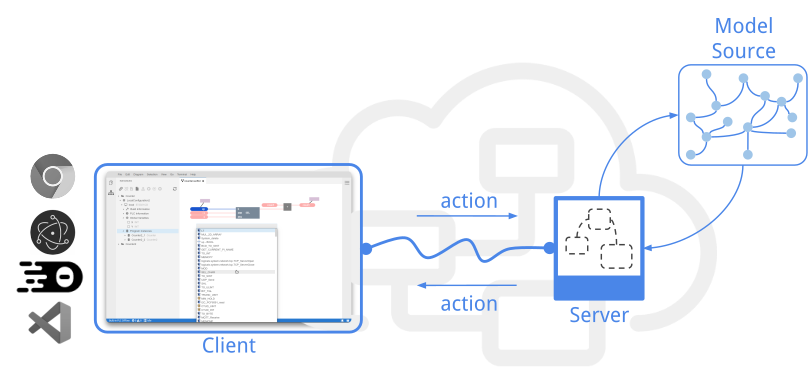
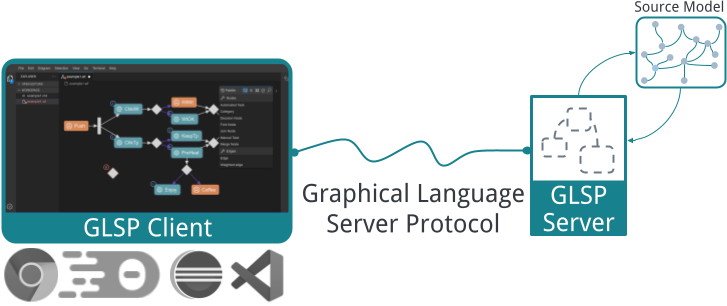
Update documentation after refactoring (#52)
https://github.com/eclipse-glsp/glsp/issues/582

diff --git a/content/documentation/modelLoading/content.md b/content/documentation/modelLoading/content.md
@@ -2,30 +2,29 @@
 fragment = "content"
 weight = 100
 
-title = "Model Source Loading & Model State"
+title = "Source Model & Model State"
 
 [sidebar]
   sticky = true
 +++
 
-To be able to render the diagram, the GLSP client first requests the graphical model from the server.
-The model loading process is initiated with a [RequestModelAction](https://github.com/eclipse-glsp/glsp/blob/master/PROTOCOL.md#241-requestmodelaction).
-Typically this is the first action that the GLSP client sends after initializing the diagram widget.
+In order to render a diagram, the GLSP client first requests the graphical model from the server by sending a [RequestModelAction](https://github.com/eclipse-glsp/glsp/blob/master/PROTOCOL.md#241-requestmodelaction).
+With such a request model action, the client can provide a set of custom arguments in the client options, such as a URI or an ID of a diagram, to specify the diagram requested by the user.
+Based on these arguments, the GLSP server determines which source model it needs to load, transform into a graphical model and send back to the client.
 
-With the [RequestModelAction](https://github.com/eclipse-glsp/glsp/blob/master/PROTOCOL.md#241-requestmodelaction), the client can provide a set of custom arguments (client options).
-At the bare minimum these client options have to provide the required information so that the _GLSP server_ can identify and load the correct model source.
-In most cases this will be, for instance, a URI of the model to be loaded.
+Therefore, a request model action is handled as follows by the the _GLSP server_ (see also `RequestModelActionHandler`):
 
-To handle such a request model action, the _GLSP server_ will perform the following steps:
-
-1. Invoke the configured `ModelSourceLoader` to load the model from an arbitrary model source into the model state.
-2. Invoke the configured `GModelFactory` to transform the model state into the graphical model (GModel; see [GModelFactory]({{< ref "modelGeneration" >}})) that describes the diagram to be rendered.
+1. Invoke the configured `SourceModelStorage` to load the source model from an arbitrary resource into the model state.
+2. Invoke the configured `GModelFactory` to transform the model state into the graphical model, or GModel for short, that describes the diagram to be rendered (see also [GModelFactory]({{< ref "modelGeneration" >}})).
 3. Invoke the model submission to send the graphical model to the client.
 
-In this section, we’ll look at step 1, in which the configured `ModelSourceLoader` implementation is invoked to load the source model from the arbitrary model source into the model state.
+In this section, we’ll look at the interfaces involved step 1: the `SourceModelStorage` and the `GModelState`.
+
+Every GLSP server needs to provide an implementation of the interface `SourceModelStorage`.
+Implementations of this interface are reponsible for loading source models from a specific resource, such as an EMF model, a JSON file, or a database, into the GLSP server's model state.
 
 The `ModelState` is the central stateful object within a client session that represents the information about the current state of the original source model.
-All other services and handlers may access the model state to obtain the required information about the model in order to perform their respective tasks.
+All other services and handlers may access the model state to obtain the required information about the model in order to perform their diagram editing tasks.
 
 As you typically need to store custom information that is specific to your model in the model state, you typically also bind a custom implementation that represents your model state.
 This implementation usually implements the interface `GModelState` (and extends the base class `DefaultGModelState`).
@@ -54,15 +53,15 @@ isBound: interfaces.IsBound, rebind: interfaces.Rebind): void {
 </details>
 </br>
 
-Now as we have registered our model state implementation, we can look at the model source loading.
-First, we need to make the GLSP server aware of your model source loader, you have to register your implementation of the `ModelSourceLoader` interface in the server’s DI module:
+Now as we have registered our model state implementation, we can look at the source model loading.
+First, we need to make the GLSP server aware of your `SourceModelStorage` implementation, so you have to bind your implementation of the `SourceModelStorage` interface in the server’s DI module:
 
 <details open><summary>Java GLSP Server</summary>
 
 ```java
   @Override
-  protected Class<? extends ModelSourceLoader> bindSourceModelLoader() {
-    return MyModelLoader.class;
+  protected Class<? extends SourceModelStorage> bindSourceModelStorage() {
+    return MySourceModelStorage.class;
   }
 ```
 
@@ -74,20 +73,23 @@ First, we need to make the GLSP server aware of your model source loader, you ha
   protected configure(bind: interfaces.Bind, unbind: interfaces.Unbind,
    isBound: interfaces.IsBound, rebind: interfaces.Rebind): void {
       super.configure(bind, unbind, isBound, rebind);
-      bind(ModelSourceLoader).to(MyModelLoader);
+      bind(SourceModelStorage).to(MySourceModelStorage);
   }
 ```
 
 </details>
 </br>
 
-The registered implementation of the model loader needs to load the source model and add it to the session’s model state, based on the parameters that are contained in the [RequestModelAction](https://github.com/eclipse-glsp/glsp/blob/master/PROTOCOL.md#241-requestmodelaction).
-Consequently, the implementation mostly depends on where you need to load your source model(s) from and what kind of model(s) you are dealing with (files, XML, JSON, EMF, database, etc.).
+The registered implementation of the source model storage needs to provide two functionalities:
+
+1. Loading source models, based on the parameters that are contained in the [RequestModelAction](https://github.com/eclipse-glsp/glsp/blob/master/PROTOCOL.md#241-requestmodelaction), and adding them into the session’s model state.
+The implementation mostly depends on where you need to load your source model(s) from and what kind of model(s) you are dealing with (files, XML, JSON, EMF, a database, etc.).
+2. Saving the current version of the source model from the `GModelState` back into its original resource (files, XML, EMF, database, etc.). This method is invoked when the client sends a [SaveModelAction](https://github.com/eclipse-glsp/glsp/blob/master/PROTOCOL.md#251-savemodelaction) (see also `SaveModelActionHandler`).
 
 <details open><summary>Java GLSP Server</summary>
 
 ```java
-public class MyModelLoader implements ModelSourceLoader {
+public class MySourceModelStorage implements SourceModelStorage {
 
    @Inject
    protected MyModelState modelState;
@@ -101,6 +103,21 @@ public class MyModelLoader implements ModelSourceLoader {
       modelState.setModel(model);
    }
 
+   @Override
+   public void saveSourceModel(final SaveModelAction action) {
+      // get the current version of your model
+      final YourModel model = modelState.getModel();
+      // get the information to know where to store your model
+      final String uri = action.getFileUri().get();
+      
+      try {
+         // store your model
+      } catch (IOException e) {
+         LOG.error(e);
+         throw new GLSPServerException("An error occured while saving the model.", e);
+      }
+   }
+
 }
 ```
 
@@ -110,7 +127,7 @@ public class MyModelLoader implements ModelSourceLoader {
 
 ```ts
 @injectable()
-export class MyModelLoader implements ModelSourceLoader {
+export class MySourceModelStorage implements SourceModelStorage {
 
     @inject(MyModelState)
     protected modelState: MyModelState;
@@ -122,6 +139,19 @@ export class MyModelLoader implements ModelSourceLoader {
       // add information needed about your model into the model state
       this.modelState.model=model;
     }
+
+   saveSourceModel(action: SaveModelAction): MaybePromise<void> {
+      // get the current version of your model
+      const model = this.modelState.model;
+      // get the information to know where to store your model
+      const uri = this.modelState.sourceUri;
+      
+      try {
+         // store your model
+      } catch (error) {
+         throw new GLSPServerError(`Could not load model from file: ${this.modelState.sourceUri}`, error);
+      }
+   }
 }
 ```
 
@@ -129,6 +159,6 @@ export class MyModelLoader implements ModelSourceLoader {
 </br>
 
 In the GLSP Workflow example there is also an example, in which the source model is a JSON file that contains the GModel directly.
-In such a scenario, you can use the plain GModelState and the JsonFileGModelLoader.
+In such a scenario, you can use the plain GModelState and the JsonFileGModelStorage.
 
-Once the source model has been loaded into the model state, the GLSP server invokes the configured `GModelFactory` to derive the graphical model from the source model and issues model update for the client. (see [Graphical Model Generation]({{< ref "modelGeneration" >}}))
+Once the source model has been loaded into the model state, the GLSP server invokes the configured `GModelFactory` to derive the graphical model from the source model and issues model update for the client (see [Graphical Model Generation]({{< ref "modelGeneration" >}})).

diff --git a/content/documentation/architecture/content.md b/content/documentation/architecture/content.md
@@ -9,6 +9,7 @@ title = "Overview & Architecture"
 +++
 
 ### Overview
+
 The *Graphical Language Server Platform* (GLSP) is a client-server framework for building web-based diagram editors.
 It follows an architectural pattern similar to the hugely popular [Language Server Protocol](https://github.com/Microsoft/language-server-protocol), but applies it to graphical modeling and diagram editors.
 With that, GLSP enables the development of modern, web-based diagram editors, whereas the heavy lifting, such as loading, interpreting, and editing diagrams according to the rules of the graphical diagram language, is encapsulated in the server.
@@ -24,11 +25,11 @@ Both the *GLSP server* and *GLSP client* have dedicated action handlers that can
 Each running diagram widget is considered to be a single *GLSP client*.
 Each client is handled by exactly one *GLSP server*. A *GLSP server* can handle multiple *GLSP client*s, each within a dedicated client session.
 
-The server is responsible for loading the model source, e.g. a file, EMF model, or database, into the model state and defines how to transform it into the graphical model.
+The server is responsible for loading the source model, e.g. a file, EMF model, or database, into the model state and defines how to transform it into the graphical model.
 The graphical model is a serializable description of the diagram that should be visualized.
 It is the central communication artifact that is transferred to the client.
 
-The *GLSP client* itself doesn’t need to know how the diagram has been generated from a model source or how to manipulate it.
+The *GLSP client* itself doesn’t need to know how the diagram has been generated from a source model or how to manipulate it.
 Its main responsibility is to visualize the graphical model and to provide user interface elements for user interaction, such as editing tools.
 Thus, the client interprets the graphical model received from the server and renders a diagram from it.
 In addition, the *GLSP client* handles user interaction and provides editing tools to invoke manipulations of the diagram.
@@ -43,7 +44,7 @@ Certain knowledge about the rules of the graphical language is required within c
 For instance, the client-side tools need to know whether the user is allowed to connect certain nodes with each other, whether those nodes can be resized or moved between container nodes, etc.
 Therefore, the protocol between client and server provides dedicated action messages that allows to transfer this required context- and diagram-specific information between the server and the client.
 
-Once an editing tool is applied in the client, the client sends a notification to the server, which then will perform the operation on the original model source, regenerates the graphical model and updates the client with the new version of the graphical model, which in turn will then update the rendered diagram based on the new graphical model.
+Once an editing tool is applied in the client, the client sends a notification to the server, which then will perform the operation on the original source model, regenerates the graphical model and updates the client with the new version of the graphical model, which in turn will then update the rendered diagram based on the new graphical model.
 </br></br>
 
 ### Action Protocol
@@ -52,7 +53,7 @@ The GLSP action protocol defines the message types that are exchanged between cl
 The protocol is structured into so-called features.
 A feature describes a specific diagram capability, e.g. element creation, diagram validation, etc.
 Each feature is composed of a set of actions and/or operations.
-An operation is a special subtype of an action and is used to describe actions that modify the underlying model source on the *GLSP server*.
+An operation is a special subtype of an action and is used to describe actions that modify the underlying source model on the *GLSP server*.
 Every action that modifies the model in any way has to be implemented as an operation.
 
 A detailed description of the protocol is available in the [GLSP repository](https://github.com/eclipse-glsp/glsp/blob/master/PROTOCOL.md).
@@ -100,7 +101,6 @@ Adopters can load new modules into the DI container.
 </p>
 </br></br>
 
-
 #### GLSP Server
 
 Similar to the GLSP client, also the server is configured via DI, including its service implementations, handlers, etc.
@@ -128,7 +128,7 @@ The node-based GLSP server uses [inversify.js](https://inversify.io/) as depende
 
 The graphical model is a serializable description of the diagram to be visualized on the client.
 It is the central communication artifact between client and server.
-The server creates the graphical model from an arbitrary model source and sends it to the client.
+The server creates the graphical model from an arbitrary source model and sends the graphical model to the client.
 Thus, the client doesn’t need to know where it came from and how to manipulate it.
 However, the client interprets the graphical model in order to render a visualization of the diagram described in the graphical model.
 

diff --git a/content/documentation/modelGeneration/content.md b/content/documentation/modelGeneration/content.md
@@ -11,16 +11,14 @@ title = "Graphical Model Generation"
 
 After the initial loading of the source model – and also after each change of the original source model – the GLSP server generates a graphical model from the source model in order to define what is to be rendered on the client.
 
-
-The generation of the graphical model from the original model source is the responsibility of the `GModelFactory`.
+The generation of the graphical model from the original source model is the responsibility of the `GModelFactory`.
 Therefore, the `GModelFactory` obtains the source model from the model state and generates a new graphical model from it.
 Implementations of the `GModelFactory` are by nature very specific to the source model and the diagram type.
 Thus, in almost every GLSP editor project, a custom `GModelFactory` implementation is provided.
 
-
-The only exception are GLSP editors that directly operate on GModels; that is, the GModel is persisted and loaded directly by the model source loader.
-In such cases, no transformation from the model source and the GModel needs to be provided as the model source already is the GModel.
-Thus, the so-called NullImpl of the `GModelFactory` can be used.
+The only exception are GLSP editors that directly operate on GModels; that is, the GModel is persisted and loaded directly by the registered implementation of the source model storage.
+In such cases, no transformation from the source model to the GModel needs to be provided as the source model already is the GModel.
+Thus, the so-called `NullImpl` of the `GModelFactory` can be used.
 An example for such a use case is provided in the GLSP Workflow example.
 
 For all other use cases, an implementation of the `GModelFactory` needs to be provided and registered in the server DI module as follows.
@@ -49,7 +47,7 @@ For all other use cases, an implementation of the `GModelFactory` needs to be pr
 </details>
 </br>
 
-For the sake of an example, let’s assume that the model source is a simple list of named entities.
+For the sake of an example, let’s assume that the source model is a simple list of named entities.
 Each entity should be visualized as a node with a label, which indicates its name.
  Then the corresponding `ModelFactory` could look as follows.
 
@@ -119,7 +117,7 @@ export class MyModelFactory implements GModelFactory {
 </details>
 </br>
 
-In the `createGModel()` method the entities are retrieved from the model state, as they have been added there by the model source loader (see  [Model Source Loader]({{< ref "modelLoading" >}})).
+In the `createGModel()` method the entities are retrieved from the model state, as they have been added there by the source model storage (see [Source Model Storage]({{< ref "modelLoading" >}})).
 Then a new GNode is created for each entity.
 Finally all new nodes are added as children of a newly created GGraph and the graphical root element in the model state is updated.
 

diff --git a/content/documentation/rendering/content.md b/content/documentation/rendering/content.md
@@ -10,7 +10,7 @@ title = "Model Rendering & Styling"
 
 ### Model Rendering
 
-The input of the diagram rendering on the client is the GModel that has been generated on the server from the model source (see [Graphical Model Generation]({{< ref "modelGeneration" >}})) and sent to the client via a [SetModelAction](https://github.com/eclipse-glsp/glsp/blob/master/PROTOCOL.md#242-setmodelaction) or [UpdateModelAction](https://github.com/eclipse-glsp/glsp/blob/master/PROTOCOL.md#243-updatemodelaction).
+The input of the diagram rendering on the client is the GModel that has been generated on the server from the source model (see [Graphical Model Generation]({{< ref "modelGeneration" >}})) and sent to the client via a [SetModelAction](https://github.com/eclipse-glsp/glsp/blob/master/PROTOCOL.md#242-setmodelaction) or [UpdateModelAction](https://github.com/eclipse-glsp/glsp/blob/master/PROTOCOL.md#243-updatemodelaction).
 The client is then responsible for rendering the graphical model.
 
 In order to render the received graphical model, each graphical element type needs to be associated with a view on the client.

diff --git a/content/documentation/modelLoading/index.md b/content/documentation/modelLoading/index.md
@@ -1,4 +1,4 @@
 +++
-title = "Model Source & State"
+title = "Source Model & State"
 weight = 25
 +++
